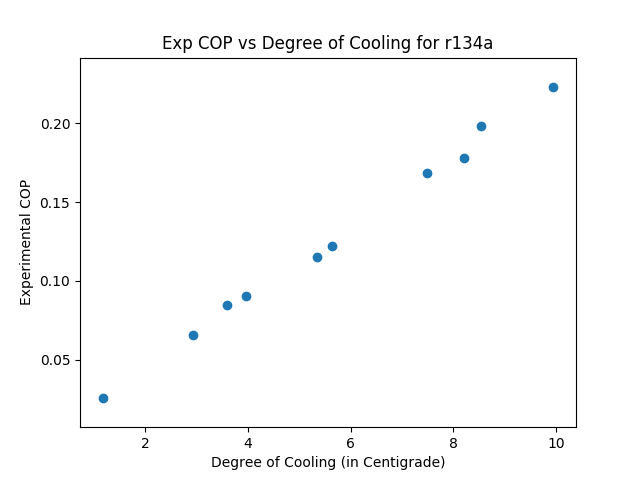
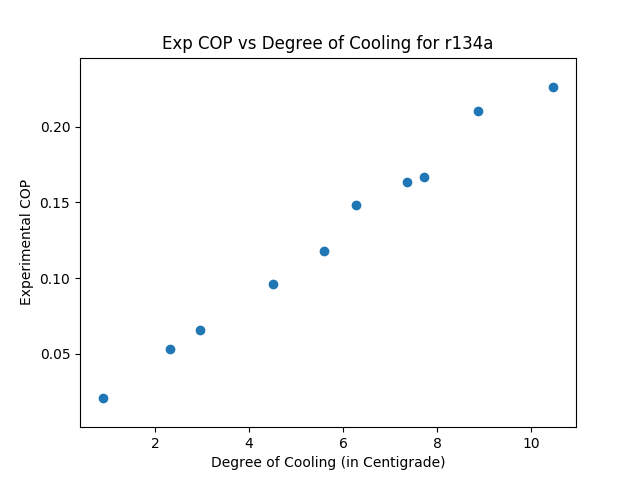
add the raw text for exp COP vs cooling

diff --git a/exp2/main.py b/exp2/main.py
@@ -21,11 +21,14 @@ def exp_COP(ref_work, comp_work):
 
 def gen_T_w(T_w_i, n):
     import random
-    return [ random.gauss(T_w_i - i, 0.5) for i in range(1, n+1) ]
+    STD = 0.5 # arbitrary
+    return [ random.gauss(T_w_i - i, STD) for i in range(1, n+1) ]
 
 def gen_I(I, n):
     import random
-    return [ random.gauss(2, 0.1) for _ in range(n) ]
+    STD = 0.1 # arbitrary
+    MEAN_CURRENT = 2  # reasonable
+    return [ random.gauss(MEAN_CURRENT, STD) for _ in range(n) ]
 
 def show_plot(x, y):
     import  matplotlib.pyplot as plt
@@ -36,20 +39,35 @@ def show_plot(x, y):
     plt.savefig('results/expCOPvscooling.png')
     plt.show()
 
-if __name__ == "__main__":
+def sim_exp_COP(T_w_i):
     # generate T_w_i, T_w, V and I
-    n = 10
+    n = 10                      # number of observations 
     V = 220                     # volts
     I = gen_I(2, n)             # Ampere
-    T_w_i = 25                  # C, initially temp warmer
+    T_w_i = T_w_i                  # C, initially temp warmer
     T_w   = gen_T_w(T_w_i, n)   # C, finally cooler after 60 seconds
     cooling = [ T_w_i - t_w for t_w in T_w ]
     comp_work = [ compressor_work(V, i) for i in I ]
     ref_work = [ refrigeration_work(T_w_i, t_w) for t_w in T_w ]
     expCOP = exp_COP(ref_work, comp_work)
-    
+
+        
+    print(f'T_w_i (initial temperature of water) = {T_w_i:.2f}')
+    print(f'Voltage = 220 V')
+    title = f'I\tT_w\tT_w_i - T_w\tCompressor Work (kW)\tRefrigerator Work (kW)\tExp COP' 
+    print("-"*( len(title) + 5*4))
+    print(title)
+    print("-"*(len(title) + 5*4))
+    for i in range(n):
+        print(f'{I[i]:4.2f}\t{T_w[i]:5.2f}\t{(T_w_i - T_w[i]):5.2f}\t\t{comp_work[i]:5.2f}\t\t\t{ref_work[i]:5.2f}\t\t\t{expCOP[i]:5.4f}')
+
+
+
     #print(f'Compressor Work : {comp_work} kW')
     #print(f'Refrigerator Work : {ref_work} kW')
     #print(f'Cooling : {cooling} kW')
     #print(f'EXP COP : {exp_COP(ref_work, comp_work)}')
     show_plot(cooling, expCOP)
+
+if __name__ == "__main__":
+    sim_exp_COP(40)
